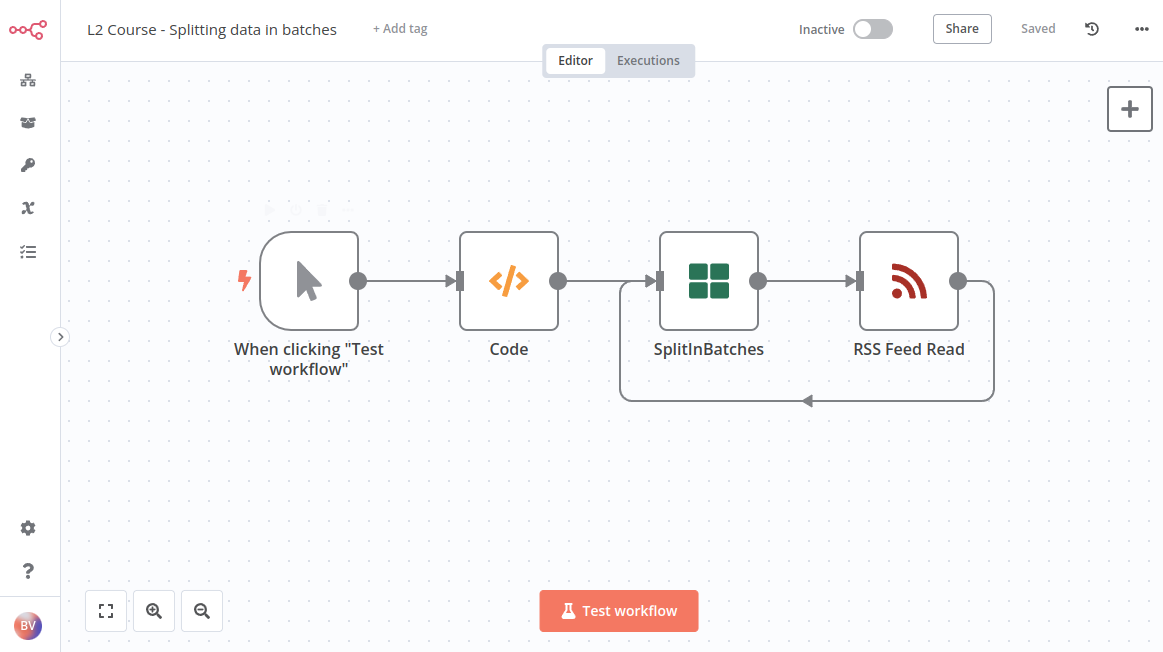
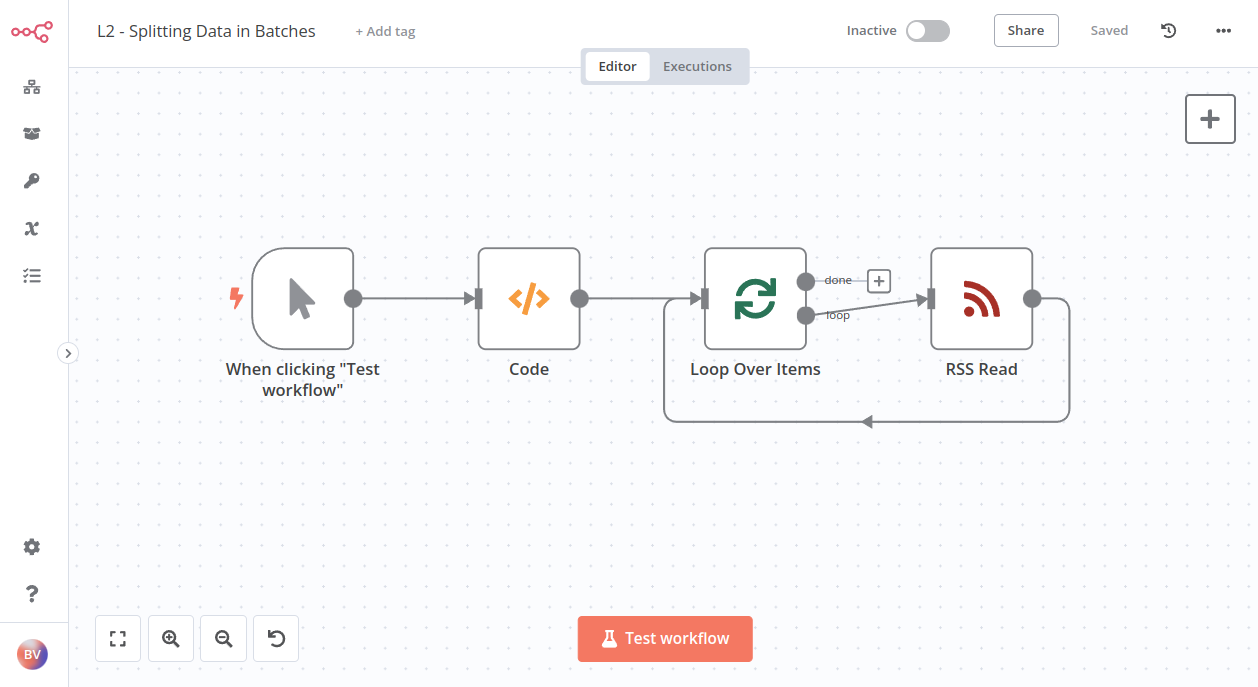
Updates Loop graphic + adds code example

diff --git a/docs/courses/level-two/chapter-3.md b/docs/courses/level-two/chapter-3.md
@@ -217,97 +217,97 @@ Build a workflow that reads the RSS feed from Medium and dev.to. The workflow sh
 	},
 	"nodes": [
 		{
-		"parameters": {
-			"jsCode": "return [\n  {\n    url: 'https://medium.com/feed/n8n-io'\n  },\n  {\n    url: 'https://dev.to/feed/n8n'\n  }\n]"
-		},
-		"name": "Code",
-		"type": "n8n-nodes-base.code",
-		"position": [
-			1040,
-			620
-		],
-		"typeVersion": 1,
-		"id": "185f7192-e865-41ca-8fbb-8028b2b0a144"
-		},
-		{
-		"parameters": {
-			"url": "={{$node[\"SplitInBatches\"].json[\"url\"]}}",
-			"options": {}
-		},
-		"name": "RSS Feed Read",
-		"type": "n8n-nodes-base.rssFeedRead",
-		"position": [
-			1440,
-			620
-		],
-		"typeVersion": 1,
-		"id": "8554f602-f845-49d4-8557-594b3828f94c"
-		},
-		{
-		"parameters": {
-			"batchSize": 1,
-			"options": {}
-		},
-		"name": "SplitInBatches",
-		"type": "n8n-nodes-base.splitInBatches",
-		"position": [
-			1240,
-			620
-		],
-		"typeVersion": 1,
-		"id": "0e0b14e3-45d4-4782-9e71-c92201b214e8"
-		},
-		{
 		"parameters": {},
-		"id": "3472e42c-05ac-4cdf-89b7-0c3e6a9a667a",
+		"id": "ed8dc090-ae8c-4db6-a93b-0fa873015c25",
 		"name": "When clicking \"Test workflow\"",
 		"type": "n8n-nodes-base.manualTrigger",
 		"typeVersion": 1,
 		"position": [
-			840,
-			620
+			460,
+			460
+		]
+		},
+		{
+		"parameters": {
+			"jsCode": "let urls = [\n  {\n    json: {\n      url: 'https://medium.com/feed/n8n-io'\n    }\n  },\n  {\n   json: {\n     url: 'https://dev.to/feed/n8n'\n   } \n  }\n]\n\nreturn urls;"
+		},
+		"id": "1df2a9bf-f970-4e04-b906-92dbbc9e8d3a",
+		"name": "Code",
+		"type": "n8n-nodes-base.code",
+		"typeVersion": 2,
+		"position": [
+			680,
+			460
+		]
+		},
+		{
+		"parameters": {
+			"options": {}
+		},
+		"id": "3cce249a-0eab-42e2-90e3-dbdf3684e012",
+		"name": "Loop Over Items",
+		"type": "n8n-nodes-base.splitInBatches",
+		"typeVersion": 3,
+		"position": [
+			900,
+			460
+		]
+		},
+		{
+		"parameters": {
+			"url": "={{ $json.url }}",
+			"options": {}
+		},
+		"id": "50e1c1dc-9a5d-42d3-b7c0-accc31636aa6",
+		"name": "RSS Read",
+		"type": "n8n-nodes-base.rssFeedRead",
+		"typeVersion": 1,
+		"position": [
+			1120,
+			460
 		]
 		}
 	],
 	"connections": {
-		"Code": {
-		"main": [
-			[
-			{
-				"node": "SplitInBatches",
-				"type": "main",
-				"index": 0
-			}
-			]
-		]
-		},
-		"RSS Feed Read": {
-		"main": [
-			[
-			{
-				"node": "SplitInBatches",
-				"type": "main",
-				"index": 0
-			}
-			]
-		]
-		},
-		"SplitInBatches": {
-		"main": [
-			[
-			{
-				"node": "RSS Feed Read",
-				"type": "main",
-				"index": 0
-			}
-			]
-		]
-		},
 		"When clicking \"Test workflow\"": {
 		"main": [
 			[
 			{
 				"node": "Code",
+				"type": "main",
+				"index": 0
+			}
+			]
+		]
+		},
+		"Code": {
+		"main": [
+			[
+			{
+				"node": "Loop Over Items",
+				"type": "main",
+				"index": 0
+			}
+			]
+		]
+		},
+		"Loop Over Items": {
+		"main": [
+			null,
+			[
+			{
+				"node": "RSS Read",
+				"type": "main",
+				"index": 0
+			}
+			]
+		]
+		},
+		"RSS Read": {
+		"main": [
+			[
+			{
+				"node": "Loop Over Items",
 				"type": "main",
 				"index": 0
 			}
